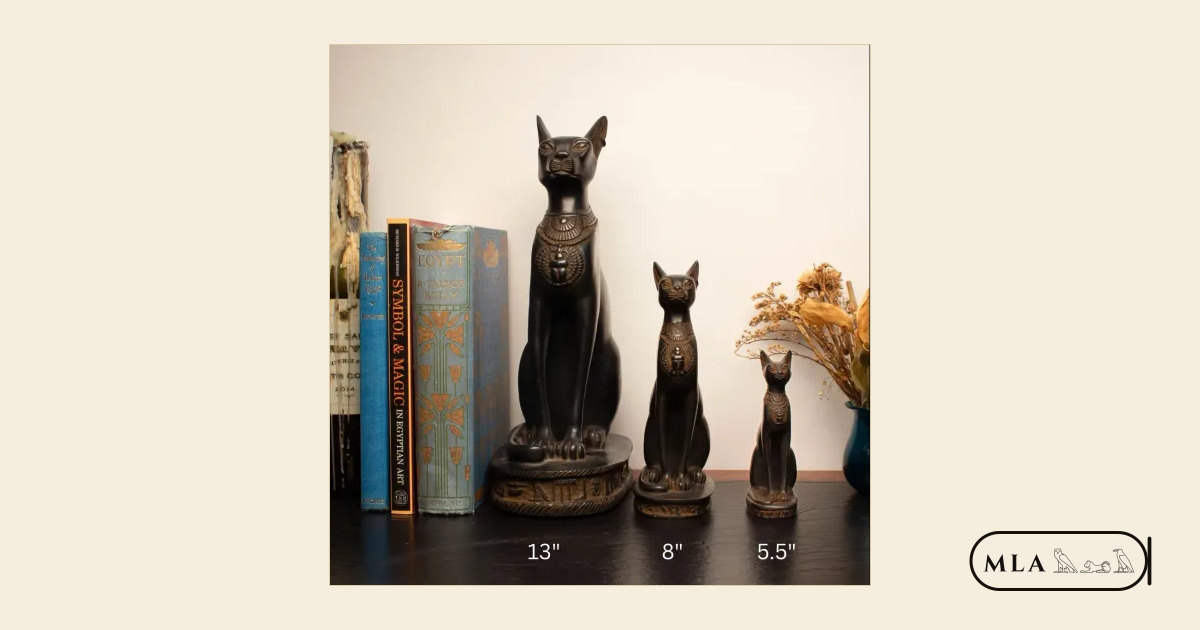
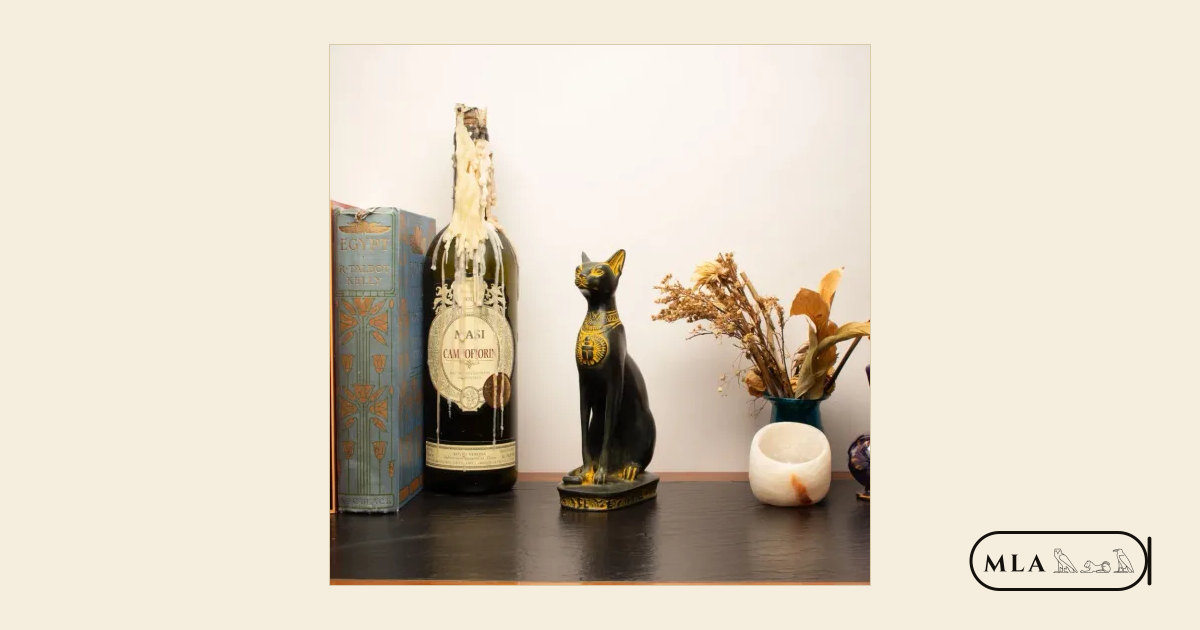
Make the headline name the piece the hero is showing
The hero cycled five photographs under a fixed headline naming three gods,
only one of which was ever on screen. The headline is now a template and
names whichever piece is showing, in both languages.

The rotation changed with it. The old set drew Isis twice and included
"Canopic Jars, Set of Four — Verdigris", which makes an unusable headline, so
it is now five distinct subjects anyone recognises — Bastet, Anubis,
Nefertiti, Tutankhamun, Isis — all in the gift band, with a short heroName
for the headline where the catalogue name is too specific.

The Arabic line is not a translation. "Made in Cairo" needs a verb agreeing
with the piece's gender and أنوبيس and باستت disagree, so Arabic reads "from
Cairo's workshops to your door", which carries the same promise with no
agreement to get wrong.

Two things this surfaced:

The headline's height jumped 168px to 221px between short and long names. The
min-heights are now measured at each breakpoint across every name rather than
guessed — 6.04rem at 375, 10.35rem at 768, 13.8rem at 1024 — and the height
is a constant 224px across all five in both languages. CLS 0.

Bastet's leading photograph was the supplier's sizing shot with 13", 8" and
5.5" burned into it: their measurements, on a shop that says most pieces are
not measured, as the first thing anyone saw. Its images are reordered so a
clean shot leads and the sizing ones stay in the gallery where they help. The
[…]

Changed region(s): [[0.2775, 0.0603, 0.74, 0.9349]]

diff --git a/src/data/products.ts b/src/data/products.ts
@@ -23,6 +23,7 @@ export const products: Product[] = [
       en: 'A lidded scarab box carrying the boy king’s cartouche.',
       ar: 'علبة على هيئة جُعران تحمل خرطوش الملك الصغير.',
     },
+    heroName: { en: 'Tutankhamun', ar: 'توت عنخ آمون' },
     description: {
       en: 'The scarab was the Egyptian sign for becoming — the beetle rolling the sun up out of the horizon each morning. This one opens. Lift the shell and the hollow beneath held rings, oils or a folded note, which is roughly what the originals were for. The lid carries Tutankhamun’s cartouche in relief.',
       ar: 'كان الجُعران علامة التحوّل عند المصريين — الخنفساء التي تدحرج الشمس من الأفق كل صباح. وهذه تُفتح. ارفع الغطاء فتجد تجويفًا كان مثله يحفظ الخواتم أو الزيوت أو ورقة مطوية، وهو تقريبًا ما صُنعت له الأصول. ويحمل الغطاء خرطوش توت عنخ آمون بارزًا.',
@@ -40,6 +41,7 @@ export const products: Product[] = [
       en: 'The household goddess, upright and listening.',
       ar: 'ربّة البيت، منتصبة ومُصغية.',
     },
+    heroName: { en: 'Bastet', ar: 'باستت' },
     description: {
       en: 'Bastet guarded the home, and the Egyptians drew her as a cat because a cat does the same job without being asked. She sits upright here, ears forward, tail curled to the front paws — the Saqqara posture, the one the bronze originals hold. Available in several finishes and sizes.',
       ar: 'كانت باستت تحرس البيت، ورسمها المصريون قطةً لأن القطة تؤدّي العمل نفسه دون أن يُطلب منها. تجلس هنا منتصبة، أذناها إلى الأمام وذيلها ملفوف عند القائمتين الأماميتين — وهي وقفة سقارة التي تتخذها البرونزيات الأصلية. متاحة بتشطيبات وأحجام عدّة.',
@@ -47,13 +49,21 @@ export const products: Product[] = [
     priceUsd: 26.5,
     compareAtUsd: null,
     featured: true,
-    images: ['1', '2', '3', '4', '5'].map((n) => `/products/bastet-cat-statue/${n}.webp`),
+    /*
+     * Not in file order. The supplier's first three shots have 13", 8" and
+     * 5.5" burned into them — their measurements, on a shop that says most
+     * pieces are not measured yet, and the first thing a visitor saw in the
+     * hero. The clean shot leads; the sizing ones stay in the gallery, where
+     * they are genuinely useful.
+     */
+    images: ['4', '1', '2', '3', '5'].map((n) => `/products/bastet-cat-statue/${n}.webp`),
   },
   {
     slug: 'isis-winged-statue',
     collection: 'gods',
     name: { en: 'Isis, Winged', ar: 'إيزيس ذات الجناحين' },
     tagline: { en: 'Arms open, wings spread in protection.', ar: 'ذراعان مفتوحتان وجناحان منشوران للحماية.' },
+    heroName: { en: 'Isis', ar: 'إيزيس' },
     description: {
       en: 'Isis put her husband back together and shielded her son, and Egyptian art gave her wings to say so. The arms open outward and the feathers fall from them in carved rows — the gesture painted across the corners of sarcophagi, where she stood guard at each one.',
       ar: 'جمعت إيزيس أشلاء زوجها وحَمَت ابنها، فمنحها الفن المصري جناحين ليقول ذلك. تنفتح الذراعان إلى الخارج ويتدلّى منهما الريش في صفوف محفورة — وهي الإشارة نفسها المرسومة على أركان التوابيت حيث كانت تقف حارسة عند كل ركن.',
@@ -222,6 +232,7 @@ export const products: Product[] = [
     collection: 'gods',
     name: { en: 'Anubis, Standing', ar: 'أنوبيس واقفًا' },
     tagline: { en: 'The jackal who weighed the heart.', ar: 'ابن آوى الذي يزن القلب.' },
+    heroName: { en: 'Anubis', ar: 'أنوبيس' },
     description: {
       en: 'Anubis ran the scales. The heart went on one pan, the feather of Maat on the other, and he read the balance — the single most consequential measurement in Egyptian thought. He is shown upright here in the striding pose, jackal head turned in profile.',
       ar: 'كان أنوبيس صاحب الميزان. يوضع القلب في كفّة وريشة ماعت في الأخرى، فيقرأ هو الميزان — وهو أخطر قياس في الفكر المصري كله. وهو هنا منتصب في وضعية الخَطو، ورأس ابن آوى ملتفت جانبيًا.',
@@ -432,6 +443,7 @@ export const products: Product[] = [
     collection: 'pharaohs',
     name: { en: 'Nefertiti Bust', ar: 'تمثال نفرتيتي النصفي' },
     tagline: { en: 'The Berlin bust, long neck and flat-topped crown.', ar: 'تمثال برلين بعنقه الطويل وتاجه المسطَّح.' },
+    heroName: { en: 'Nefertiti', ar: 'نفرتيتي' },
     description: {
       en: 'Found in a sculptor’s workshop at Amarna in 1912, unfinished — the left eye was never inlaid and still is not. It was a model kept for other artists to copy, which makes every reproduction since a continuation of what it was for.',
       ar: 'عُثر عليه في ورشة نحّات بتل العمارنة سنة 1912 غير مكتمل — فالعين اليسرى لم تُطعَّم قطّ ولا تزال. كان نموذجًا يُحتفظ به ليَنسخ عنه الفنانون الآخرون، وهو ما يجعل كل نسخة بعده امتدادًا لما صُنع من أجله.',

diff --git a/src/components/hero.tsx b/src/components/hero.tsx
@@ -53,6 +53,14 @@ export function Hero({
   const { currency } = useCurrency();
   const [index, setIndex] = useState(0);
   const [paused, setPaused] = useState(false);
+  /**
+   * The headline only fades once the hero has actually changed piece. The
+   * fade starts at opacity 0, and the headline is the largest text on the
+   * page — animating it on first paint made it the LCP element and pushed
+   * LCP from 2.1s to 4.8s, 90% of it render delay, for a flourish nobody
+   * sees on arrival.
+   */
+  const [rotated, setRotated] = useState(false);
   const reduced = usePrefersReducedMotion();
   const orderRef = useRef<number[]>([]);
 
@@ -72,6 +80,7 @@ export function Hero({
   useEffect(() => {
     if (paused || reduced || products.length < 2) return;
     const timer = window.setInterval(() => {
+      setRotated(true);
       setIndex((current) => {
         const order = orderRef.current;
         const at = order.indexOf(current);
@@ -100,8 +109,16 @@ export function Hero({
         <p className="font-display text-[11px] uppercase tracking-[0.3em] text-gold-300 sm:text-xs">
           {dict.hero.eyebrow}
         </p>
-        <h1 className="mt-3 font-display text-[1.75rem] leading-[1.15] text-papyrus-50 sm:text-4xl lg:text-5xl">
-          {dict.hero.title}
+        {/*
+          min-height reserves what the longest name needs so swapping the
+          headline never nudges the page. Measured at each breakpoint with
+          every name in the rotation, not guessed: the tallest is 6.04rem at
+          375px, 10.35rem at 768 and 13.8rem at 1024.
+        */}
+        <h1 className="mt-3 min-h-[6.3rem] font-display text-[1.75rem] leading-[1.15] text-papyrus-50 sm:min-h-[10.5rem] sm:text-4xl lg:min-h-[14rem] lg:text-5xl">
+          <span key={active.slug} className={rotated ? 'animate-hero-name' : undefined}>
+            {dict.hero.title.replace('{name}', (active.heroName ?? active.name)[locale])}
+          </span>
         </h1>
 
         <p className="mt-4 max-w-md text-base leading-relaxed text-papyrus-300 sm:text-lg">
@@ -182,7 +199,10 @@ export function Hero({
               <button
                 key={product.slug}
                 type="button"
-                onClick={() => setIndex(i)}
+                onClick={() => {
+                  setRotated(true);
+                  setIndex(i);
+                }}
                 aria-label={product.name[locale]}
                 aria-current={i === index}
                 className="group grid h-7 w-7 place-items-center rounded-full"

diff --git a/src/app/[locale]/page.tsx b/src/app/[locale]/page.tsx
@@ -16,15 +16,27 @@ export default async function HomePage({ params }: { params: Promise<{ locale: s
 
   const featured = products.filter((p) => p.featured).slice(0, 8);
   /**
-   * The hero cycles through five bestsellers. Bastet leads because she is
-   * mid-priced and instantly recognisable — opening on the AED 764 sculpture
-   * would price the shop out of a gift-buyer's head before they scrolled —
-   * and the rest follow in an order shuffled per visit.
+   * The hero cycles five pieces and the headline names whichever is showing,
+   * so the words and the photograph always agree.
+   *
+   * They are chosen for distinct, instantly recognisable subjects rather than
+   * by rank: the previous set drew Isis twice and included "Canopic Jars, Set
+   * of Four — Verdigris", which makes an unusable headline. All five sit in
+   * the gift band, and Bastet leads because the server renders index 0 and
+   * opening on the AED 764 sculpture would price the shop out of a
+   * gift-buyer's head before they scrolled.
    */
-  const heroPieces = [
-    products.find((p) => p.slug === 'bastet-cat-statue'),
-    ...featured.filter((p) => p.slug !== 'bastet-cat-statue'),
-  ].filter((p): p is NonNullable<typeof p> => Boolean(p)).slice(0, 5);
+  const heroSlugs = [
+    'bastet-cat-statue',
+    'anubis-standing-statue',
+    'nefertiti-bust',
+    'tutankhamun-scarab-box',
+    'isis-winged-statue',
+  ];
+  const heroPieces = heroSlugs
+    .map((slug) => products.find((product) => product.slug === slug))
+    .filter((product): product is NonNullable<typeof product> => Boolean(product));
+
   const cheapestUsd = Math.min(...products.map((p) => p.priceUsd));
 
   return (

diff --git a/src/i18n/dictionaries/ar.ts b/src/i18n/dictionaries/ar.ts
@@ -16,7 +16,11 @@ export const ar: Dictionary = {
   },
   hero: {
     eyebrow: 'صناعة يدوية في مصر',
-    title: 'باستت وأنوبيس ونفرتيتي — صُنعت في القاهرة وتصل إلى بابك',
+    // Deliberately not a translation of the English: 'made in Cairo' needs a
+    // verb that agrees with the piece's gender, and أنوبيس and باستت disagree.
+    // 'from Cairo's workshops to your door' carries the same promise with no
+    // agreement to get wrong.
+    title: '{name} — من ورش القاهرة إلى بابك',
     body: 'قطع مصرية مشغولة يدويًا تبدأ من {from}. اطلب عبر واتساب، إلى أي مكان في الخليج خلال 15 يومًا.',
     featuredLabel: 'الأكثر طلبًا',
     orderNow: 'اطلب عبر واتساب',

diff --git a/src/i18n/dictionaries/en.ts b/src/i18n/dictionaries/en.ts
@@ -14,7 +14,8 @@ export const en = {
   },
   hero: {
     eyebrow: 'Handmade in Egypt',
-    title: 'Bastet, Anubis and Nefertiti — made in Cairo, delivered to your door',
+    /** {name} is the piece currently shown, so the headline and the photo agree. */
+    title: '{name} — made in Cairo, delivered to your door',
     /** {from} is replaced with the cheapest piece in the visitor's currency. */
     body: 'Hand-finished Egyptian pieces from {from}. Order on WhatsApp, anywhere in the Gulf within 15 days.',
     featuredLabel: 'Most asked for',

diff --git a/src/data/types.ts b/src/data/types.ts
@@ -19,6 +19,12 @@ export type Product = {
   name: Localised;
   /** One line for cards and meta descriptions. */
   tagline: Localised;
+  /**
+   * What the piece is called in the home page headline, where the catalogue
+   * name is too long or too specific — "Bastet" rather than "Bastet, Seated".
+   * Falls back to `name`.
+   */
+  heroName?: Localised;
   description: Localised;
   /** As listed by the supplier, before MLA's markup. Never shown directly. */
   priceUsd: number;

diff --git a/src/app/globals.css b/src/app/globals.css
@@ -142,6 +142,21 @@
   display: inline;
 }
 
+/* The headline fading in as the hero changes piece. */
+@keyframes hero-name {
+  from {
+    opacity: 0;
+  }
+  to {
+    opacity: 1;
+  }
+}
+
+@utility animate-hero-name {
+  animation: hero-name 0.5s ease-out both;
+  display: inline-block;
+}
+
 /* The hieroglyph loading animation: each sign fades up in turn. */
 @keyframes glyph-pulse {
   0%,
